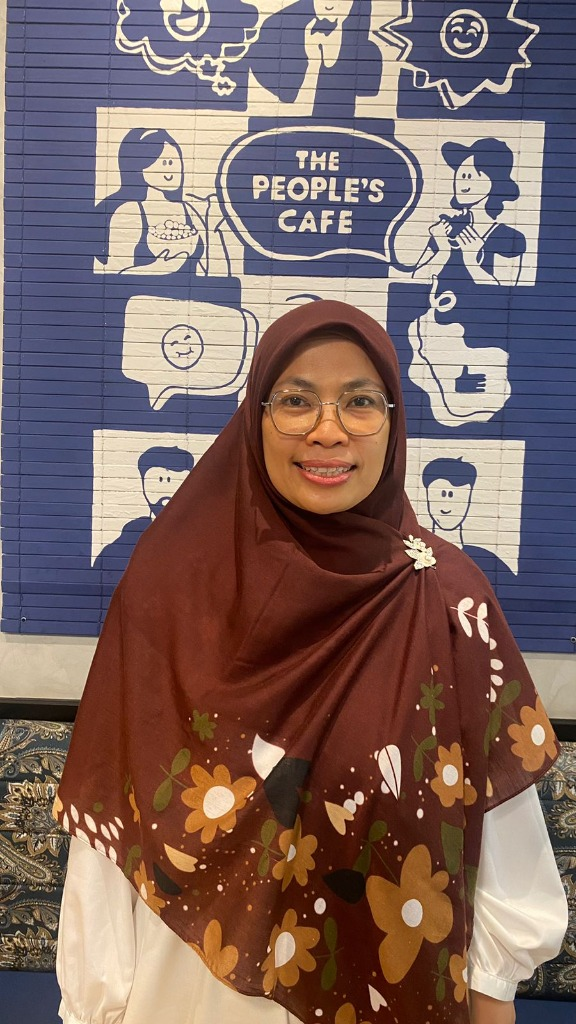
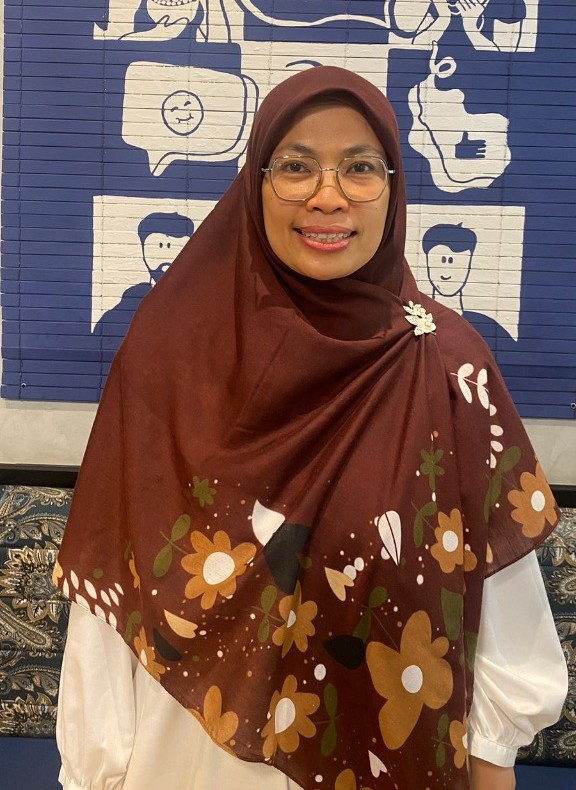
update

diff --git a/style.css b/style.css
@@ -5918,3 +5918,191 @@ body.nav-open {
     font-size: .84rem;
   }
 }
+
+/* ==================================================
+   MOBILE NAV, PAYMENT LOGOS, AND CTA ALIGNMENT
+   ================================================== */
+@media (min-width: 1025px) {
+  .about-grid {
+    grid-template-columns: minmax(360px, .84fr) minmax(0, 1.16fr);
+    gap: clamp(30px, 3vw, 42px);
+    align-items: center;
+  }
+
+  .about-image-wrapper {
+    margin-left: clamp(-28px, -2vw, -12px);
+    margin-right: 0;
+  }
+}
+
+.qris-apps {
+  gap: 8px;
+  align-items: center;
+}
+
+.qris-app,
+.qris-apps .qris-app {
+  width: 72px;
+  height: 42px;
+  padding: 7px 9px;
+  border-radius: 12px;
+  background: #fff;
+  border: 1px solid rgba(15, 30, 60, .08);
+  box-shadow: 0 8px 20px rgba(20, 20, 20, .08);
+}
+
+.qris-app img {
+  display: block;
+  width: 100%;
+  height: 100%;
+  object-fit: contain;
+}
+
+#payment-confirm-btn,
+#final-cta-btn {
+  display: inline-flex;
+  align-items: center;
+  justify-content: center;
+  text-align: center;
+}
+
+#payment-confirm-btn svg,
+#final-cta-btn svg {
+  flex: 0 0 auto;
+}
+
+@media (max-width: 992px) {
+  .nav-toggle {
+    width: 48px;
+    height: 40px;
+    padding: 0;
+    gap: 0;
+  }
+
+  .nav-toggle > span:not(.nav-toggle-lines),
+  .nav-toggle-dot {
+    display: none !important;
+  }
+
+  .nav-toggle-lines {
+    position: relative;
+    display: block !important;
+    width: 24px;
+    height: 18px;
+    background: transparent !important;
+    transform: none !important;
+    opacity: 1 !important;
+  }
+
+  .nav-toggle-lines span {
+    position: absolute;
+    left: 0;
+    display: block !important;
+    width: 24px;
+    height: 2px;
+    padding: 0 !important;
+    border-radius: 999px;
+    background: #fff;
+    transform-origin: center;
+    transition: top .24s ease, bottom .24s ease, transform .24s ease, opacity .2s ease;
+  }
+
+  .nav-toggle-lines span:first-child {
+    top: 4px;
+  }
+
+  .nav-toggle-lines span:last-child {
+    right: auto;
+    bottom: 4px;
+    left: 0;
+    width: 24px;
+  }
+
+  .nav-toggle.open .nav-toggle-lines {
+    transform: none !important;
+  }
+
+  .nav-toggle.open .nav-toggle-lines span:first-child {
+    top: 8px;
+    transform: rotate(45deg);
+  }
+
+  .nav-toggle.open .nav-toggle-lines span:last-child {
+    bottom: 8px;
+    width: 24px;
+    transform: rotate(-45deg);
+  }
+
+  .nav-menu {
+    align-content: start;
+    gap: clamp(4px, 1dvh, 7px);
+    height: calc(100dvh - 64px);
+    padding: 12px 18px 14px;
+    overflow-y: hidden;
+  }
+
+  .nav-link {
+    min-height: clamp(34px, 6.2dvh, 40px);
+    padding: 7px 14px;
+    border-radius: 12px;
+    font-size: .88rem;
+    line-height: 1.1;
+  }
+
+  .nav-mobile-cta .nav-cta {
+    min-height: 40px;
+    padding: 9px 14px;
+    font-size: .88rem;
+    line-height: 1.1;
+  }
+
+  .nav-powered {
+    margin-top: 0;
+    padding: 4px 4px 0;
+    font-size: .72rem;
+    line-height: 1.15;
+  }
+}
+
+@media (max-width: 768px) {
+  #payment-confirm-btn,
+  #final-cta-btn {
+    justify-content: center;
+    align-items: center;
+    margin-inline: auto;
+  }
+
+  #payment-confirm-btn {
+    max-width: 330px;
+  }
+
+  .qris-app,
+  .qris-apps .qris-app {
+    width: 58px;
+    height: 34px;
+    padding: 6px 7px;
+  }
+}
+
+@media (max-width: 380px) {
+  .nav-menu {
+    gap: 4px;
+    padding: 10px 14px 12px;
+  }
+
+  .nav-link {
+    min-height: 33px;
+    padding: 6px 12px;
+    font-size: .82rem;
+  }
+
+  .nav-mobile-cta .nav-cta {
+    min-height: 36px;
+    padding: 8px 12px;
+    font-size: .82rem;
+  }
+
+  .nav-powered {
+    font-size: .68rem;
+  }
+}

diff --git a/index.html b/index.html
@@ -465,7 +465,6 @@
           <span></span>
           <span></span>
         </span>
-        <span class="nav-toggle-dot" aria-hidden="true"></span>
       </button>
       <ul class="nav-menu" id="navMenu">
         <li><a href="#beranda" class="nav-link active">Beranda</a></li>
@@ -1011,15 +1010,15 @@
                 <span class="qris-label">Scan QRIS untuk Bayar</span>
               </div>
               <div class="qris-img-wrap">
-                <img src="qris.jpg" alt="QRIS pembayaran Dapur Karaeng Lu'Mu Makassar untuk pesanan WhatsApp" width="300" height="400" loading="lazy"
+                <img src="qris.png" alt="QRIS pembayaran Dapur Karaeng Lu'Mu Makassar untuk pesanan WhatsApp" width="300" height="400" loading="lazy"
                   class="qris-img" />
               </div>
               <div class="qris-apps">
-                <span class="qris-app qris-gopay" aria-label="GoPay"><span class="qris-mark">g</span></span>
-                <span class="qris-app qris-ovo" aria-label="OVO"><span class="qris-mark">OVO</span></span>
-                <span class="qris-app qris-dana" aria-label="DANA"><span class="qris-mark">D</span></span>
-                <span class="qris-app qris-linkaja" aria-label="LinkAja"><span class="qris-mark"></span></span>
-                <span class="qris-app qris-shopeepay" aria-label="ShopeePay"><span class="qris-mark">S</span></span>
+                <span class="qris-app" aria-label="GoPay"><img src="logo-gopay.webp" alt="GoPay" width="70" height="32" loading="lazy" /></span>
+                <span class="qris-app" aria-label="OVO"><img src="logo-ovo.webp" alt="OVO" width="70" height="32" loading="lazy" /></span>
+                <span class="qris-app" aria-label="DANA"><img src="logo-dana.webp" alt="DANA" width="70" height="32" loading="lazy" /></span>
+                <span class="qris-app" aria-label="LinkAja"><img src="logo-linkaja.webp" alt="LinkAja" width="70" height="32" loading="lazy" /></span>
+                <span class="qris-app" aria-label="ShopeePay"><img src="logo-shopeepay.webp" alt="ShopeePay" width="70" height="32" loading="lazy" /></span>
               </div>
               <p class="qris-note">Scan menggunakan aplikasi pembayaran digital Anda</p>
             </div>